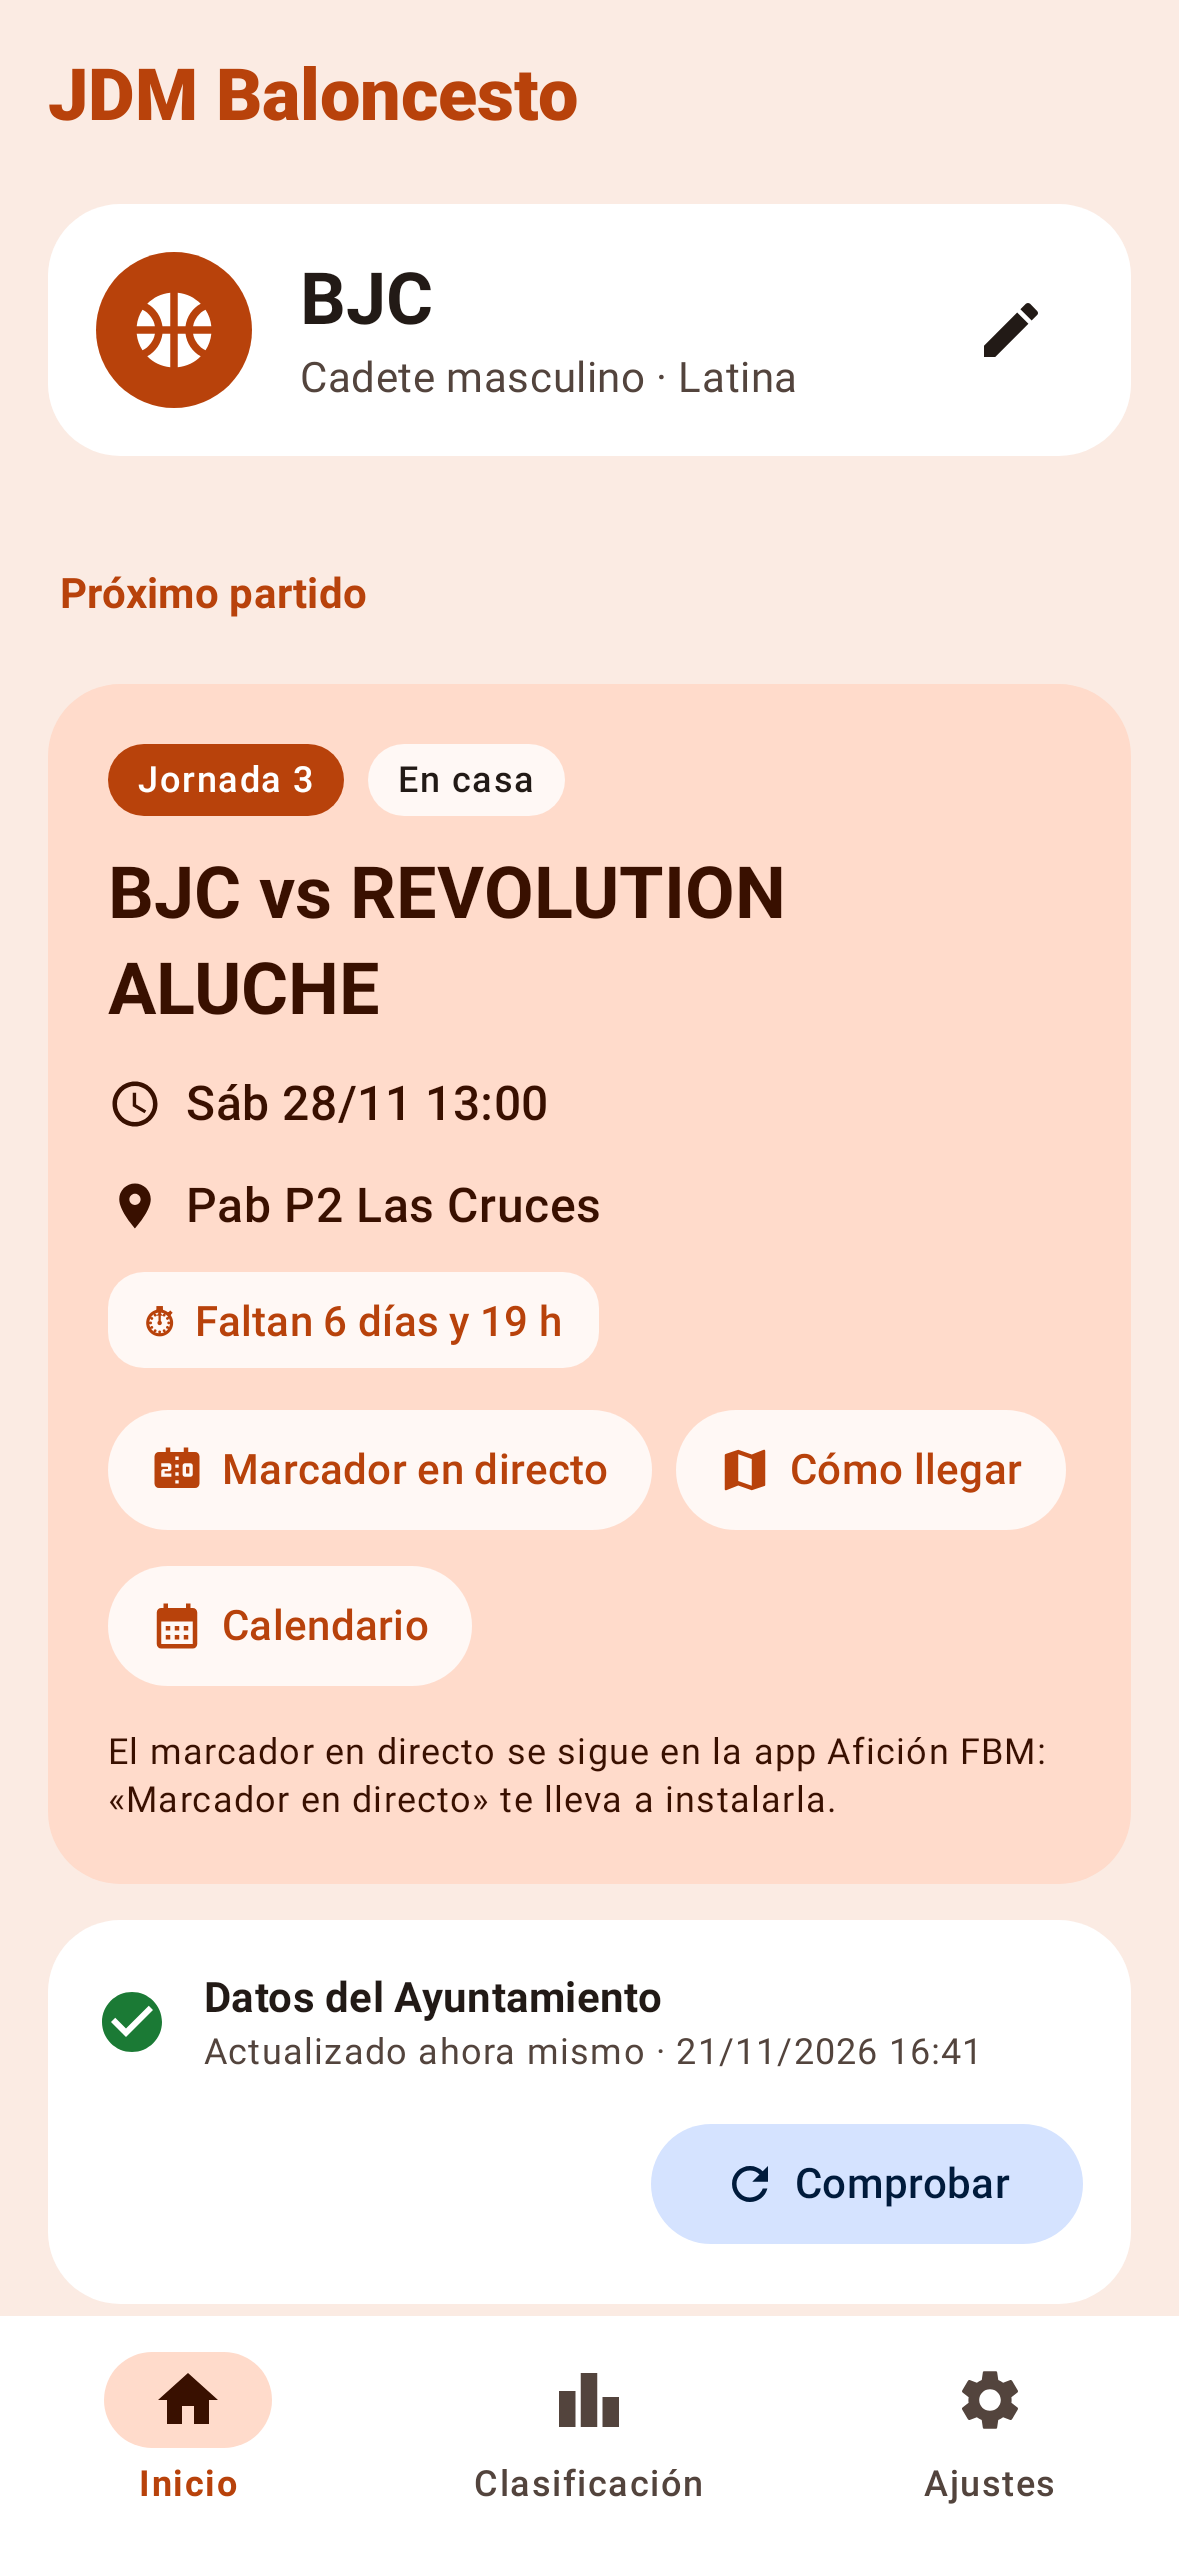
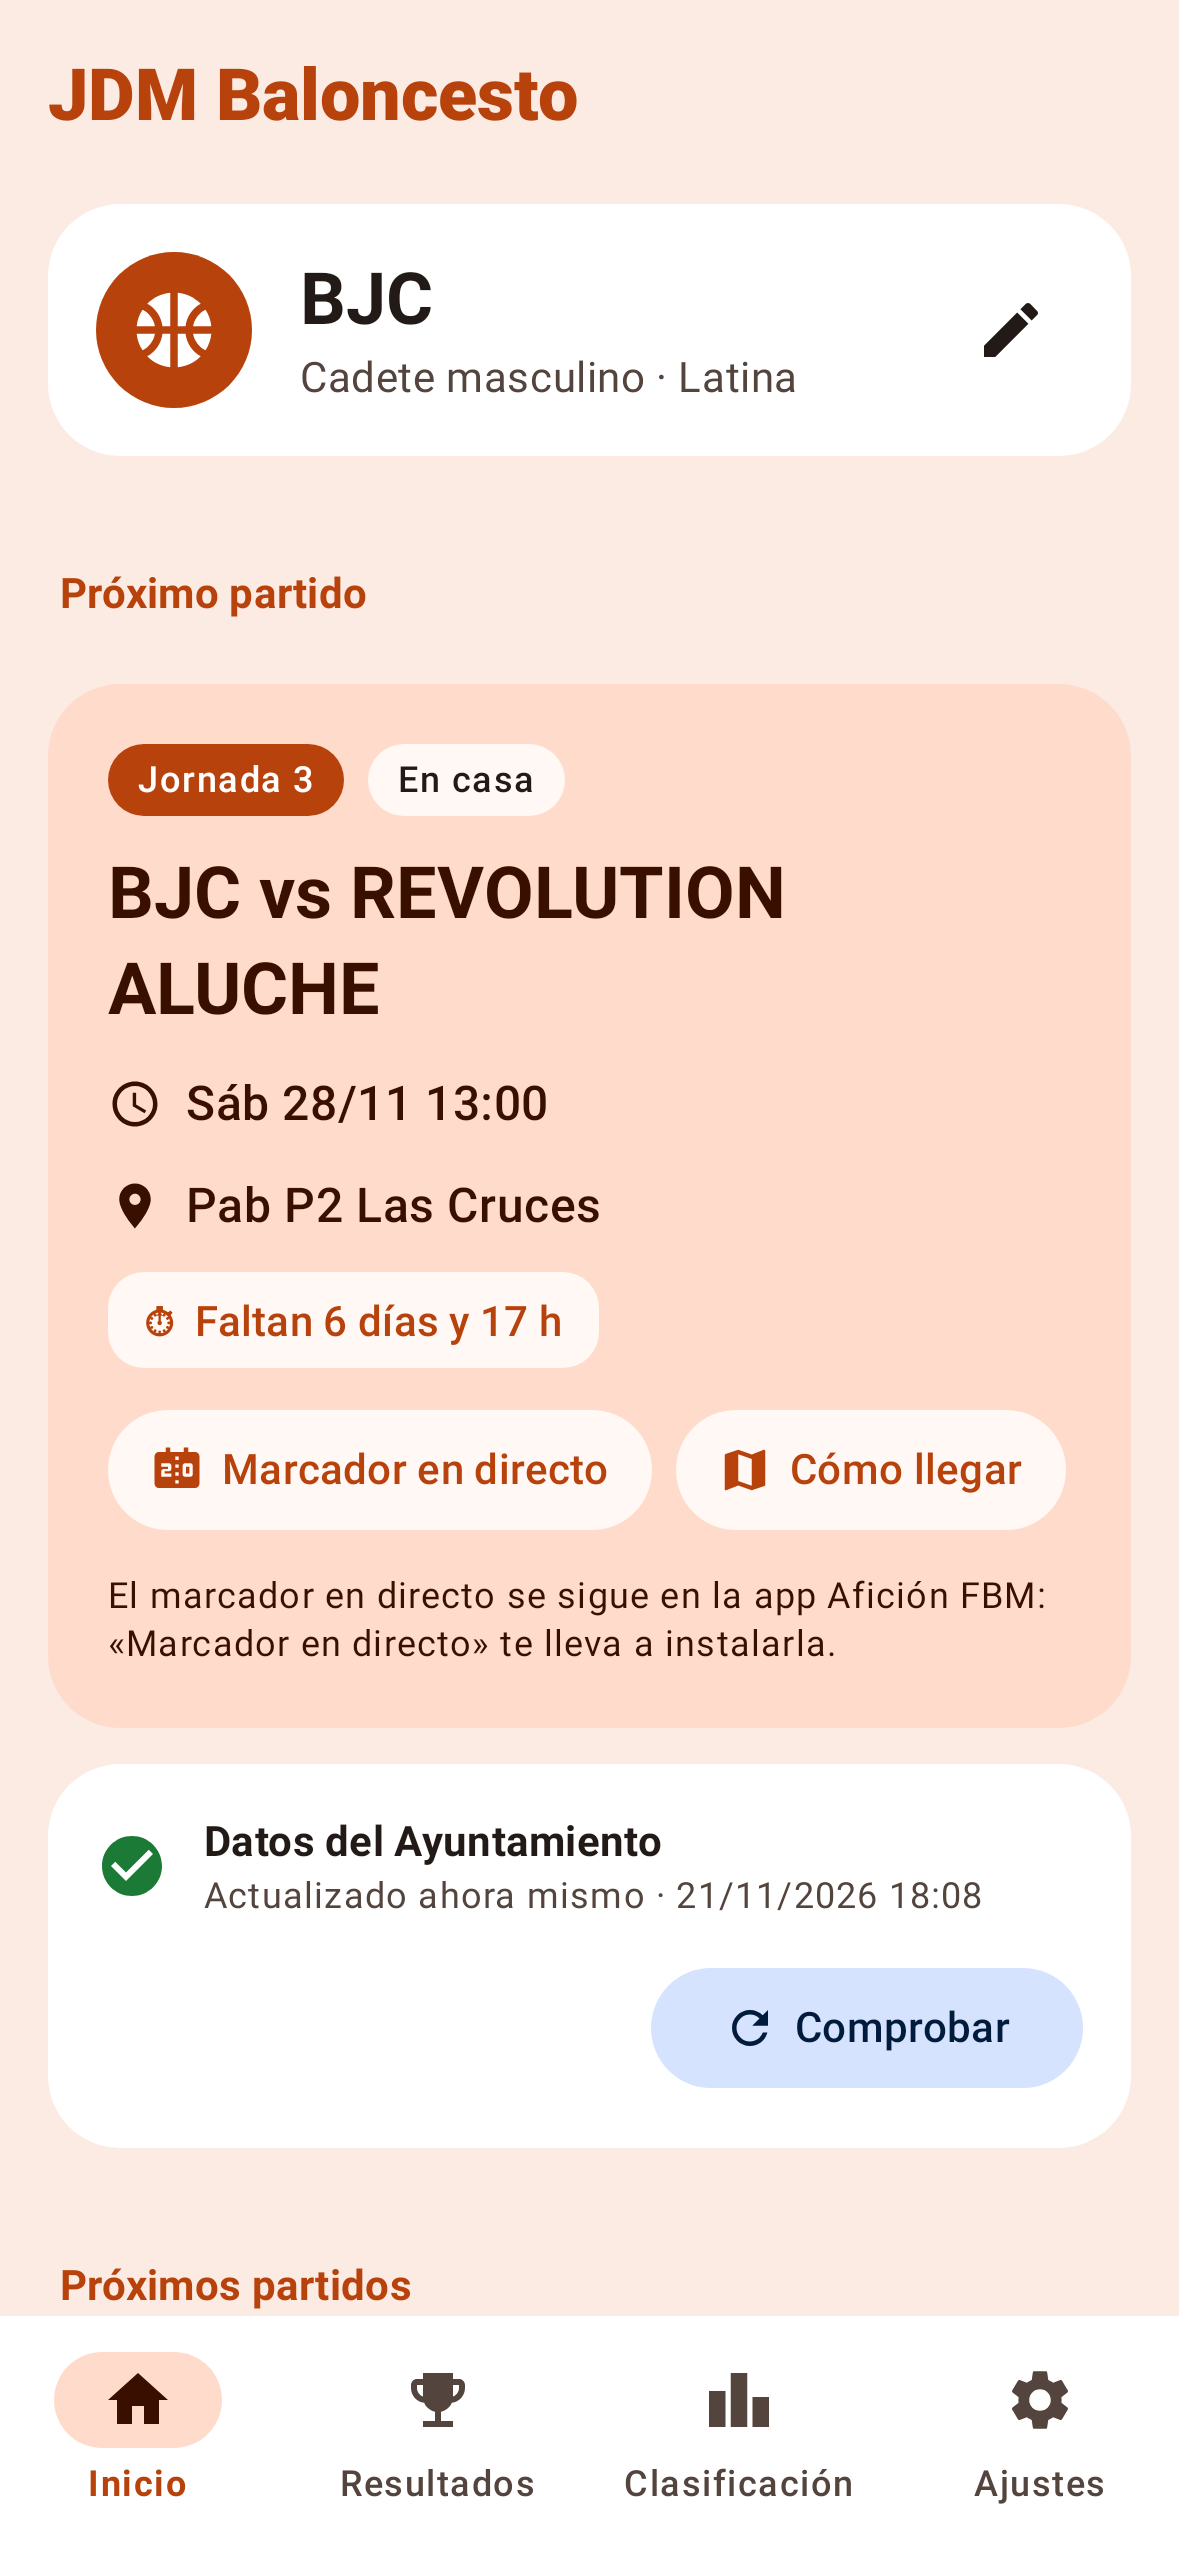
README: capturas de la versión 1.0.32
Claude-Session: https://claude.ai/code/session_01Bo9TQX3sZgRDAsS61yq6dP

Changed region(s): [[0.0305, 0.5872, 0.9771, 0.989], [0.8244, 0.6182, 0.8855, 0.6491], [0.4275, 0.4945, 0.458, 0.5254]]

diff --git a/README.md b/README.md
@@ -22,9 +22,9 @@ en esa página, en *Assets*, el archivo `jdm-baloncesto-vX.Y.Z.apk`.
 - **Calendario** opcional: un evento por partido en tu calendario.
 - **Se actualiza sola**: cuando hay versión nueva, la app lo avisa y se instala con dos toques.
 
-| Inicio | Marcador en directo | Crónica | Clasificación |
-|---|---|---|---|
-| <img src="capturas/2_inicio.png" width="200"> | <img src="capturas/12_marcador_directo.png" width="200"> | <img src="capturas/11_cronica.png" width="200"> | <img src="capturas/3_clasificacion.png" width="200"> |
+| Inicio | Resultados | Marcador en directo | Crónica | Clasificación |
+|---|---|---|---|---|
+| <img src="capturas/2_inicio.png" width="160"> | <img src="capturas/2b_resultados.png" width="160"> | <img src="capturas/12_marcador_directo.png" width="160"> | <img src="capturas/11_cronica.png" width="160"> | <img src="capturas/3_clasificacion.png" width="160"> |
 
 ## Cómo instalarla
 
